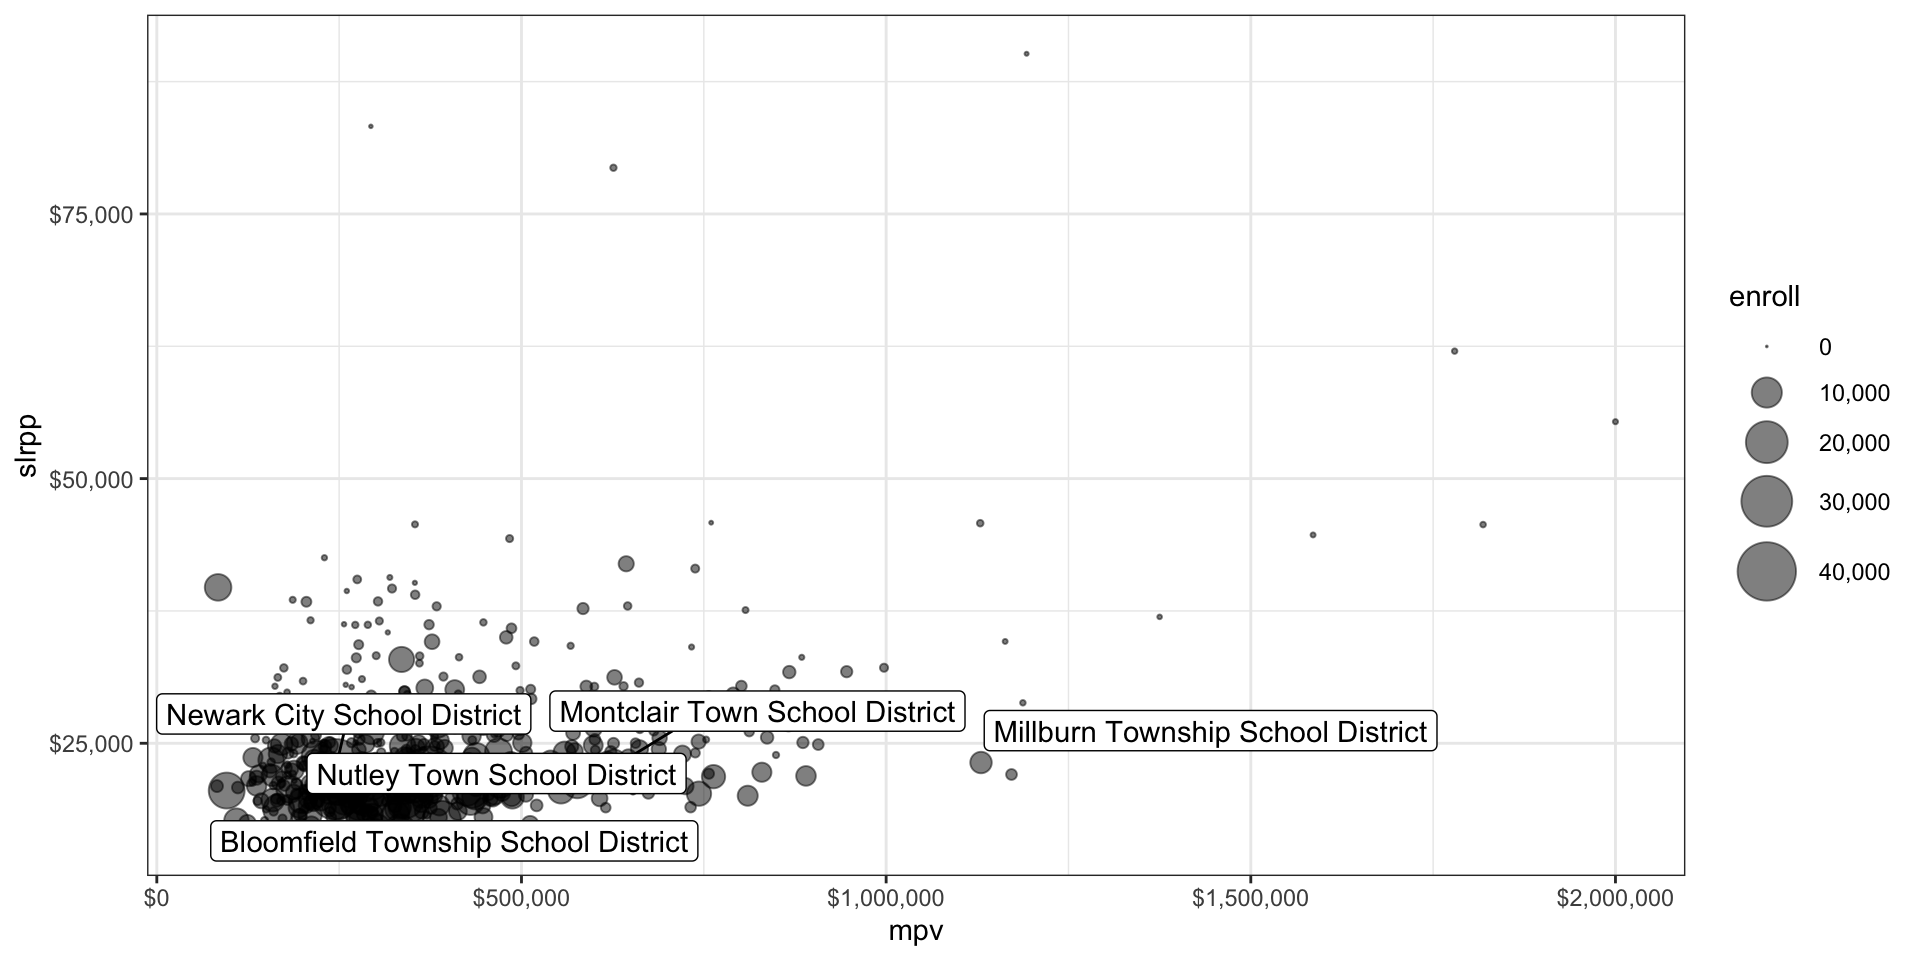
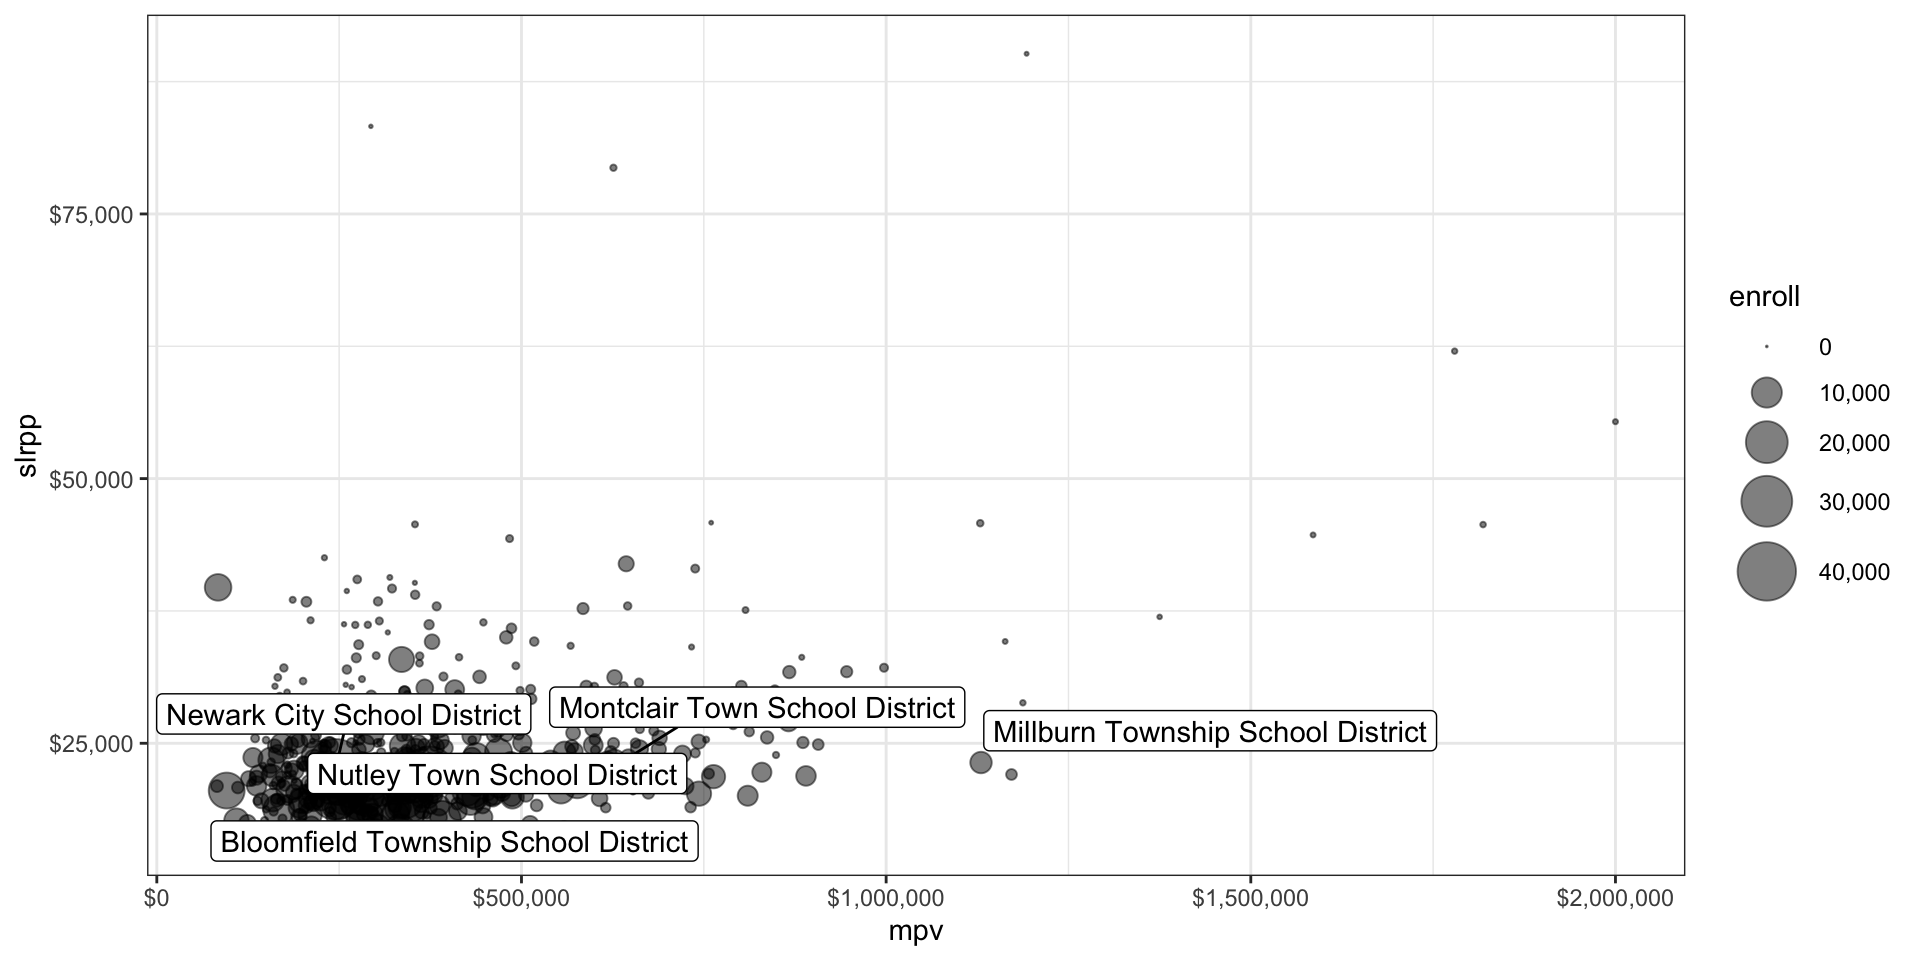
update code chunk comp

Changed region(s): [[0.1562, 0.7188, 0.7188, 0.8125], [0.25, 0.875, 0.375, 0.9062], [0.125, 0.875, 0.2188, 0.9062]]

diff --git a/docs/slides/week_10/week_10.html b/docs/slides/week_10/week_10.html
@@ -516,8 +516,8 @@
 </figure>
 </div>
 </div>
-</div></section><section id="the-ggrepel-package-allows-you-to-add-more-helpful-custom-labels-without-much-change-in-your-code" class="slide level2">
-<h2>The <code>ggrepel</code> package allows you to add more helpful, custom labels without much change in your code</h2>
+</div></section><section id="the-ggrepel-package-allows-you-to-add-more-helpful-custom-labels-without-much-change-to-your-code" class="slide level2">
+<h2>The <code>ggrepel</code> package allows you to add more helpful, custom labels without much change to your code</h2>
 <div class="columns">
 <div class="column" style="width:50%;">
 <div class="cell">
@@ -529,7 +529,7 @@
 <span id="cb4-6"><a></a>                 <span class="at">size =</span> enroll),</span>
 <span id="cb4-7"><a></a>             <span class="at">alpha =</span> .<span class="dv">5</span>) <span class="sc">+</span></span>
 <span id="cb4-8"><a></a>  <span class="co"># add text labels using geom_label_repel()</span></span>
-<span id="cb4-9"><a></a>  <span class="fu">geom_label_repel</span>(<span class="at">data =</span> nj_labels,</span>
+<span id="cb4-9"><a></a>  <span class="fu">geom_label</span>(<span class="at">data =</span> nj_labels,</span>
 <span id="cb4-10"><a></a>                   <span class="fu">aes</span>(<span class="at">x =</span> mpv, </span>
 <span id="cb4-11"><a></a>                   <span class="at">y =</span> slrpp, </span>
 <span id="cb4-12"><a></a>                   <span class="at">label =</span> name)) <span class="sc">+</span></span>
@@ -562,7 +562,7 @@
 </div>
 </div>
 </section>
-<section id="the-ggrepel-package-allows-you-to-add-more-helpful-custom-labels-without-much-change-to-your-code" class="slide level2">
+<section id="the-ggrepel-package-allows-you-to-add-more-helpful-custom-labels-without-much-change-to-your-code-1" class="slide level2">
 <h2>The <code>ggrepel</code> package allows you to add more helpful, custom labels without much change to your code</h2>
 <div class="columns">
 <div class="column" style="width:50%;">
@@ -575,7 +575,7 @@
 <span id="cb6-6"><a></a>                 <span class="at">size =</span> enroll),</span>
 <span id="cb6-7"><a></a>             <span class="at">alpha =</span> .<span class="dv">5</span>) <span class="sc">+</span></span>
 <span id="cb6-8"><a></a>  <span class="co"># add text labels using geom_label_repel()</span></span>
-<span id="cb6-9"><a></a>  <span class="fu">geom_label_repel</span>(<span class="at">data =</span> nj_labels,</span>
+<span id="cb6-9"><a></a>  <span class="fu">geom_label</span>(<span class="at">data =</span> nj_labels,</span>
 <span id="cb6-10"><a></a>                   <span class="fu">aes</span>(<span class="at">x =</span> mpv, </span>
 <span id="cb6-11"><a></a>                   <span class="at">y =</span> slrpp, </span>
 <span id="cb6-12"><a></a>                   <span class="at">label =</span> name)) <span class="sc">+</span></span>
@@ -609,7 +609,7 @@
 </div>
 </div>
 </section>
-<section id="the-ggrepel-package-allows-you-to-add-more-helpful-custom-labels-without-much-change-to-your-code-output" class="slide level2 output-location-slide"><h2>The <code>ggrepel</code> package allows you to add more helpful, custom labels without much change to your code</h2><div class="cell output-location-slide">
+<section id="the-ggrepel-package-allows-you-to-add-more-helpful-custom-labels-without-much-change-to-your-code-1-output" class="slide level2 output-location-slide"><h2>The <code>ggrepel</code> package allows you to add more helpful, custom labels without much change to your code</h2><div class="cell output-location-slide">
 <div class="cell-output-display">
 <div>
 <figure>
